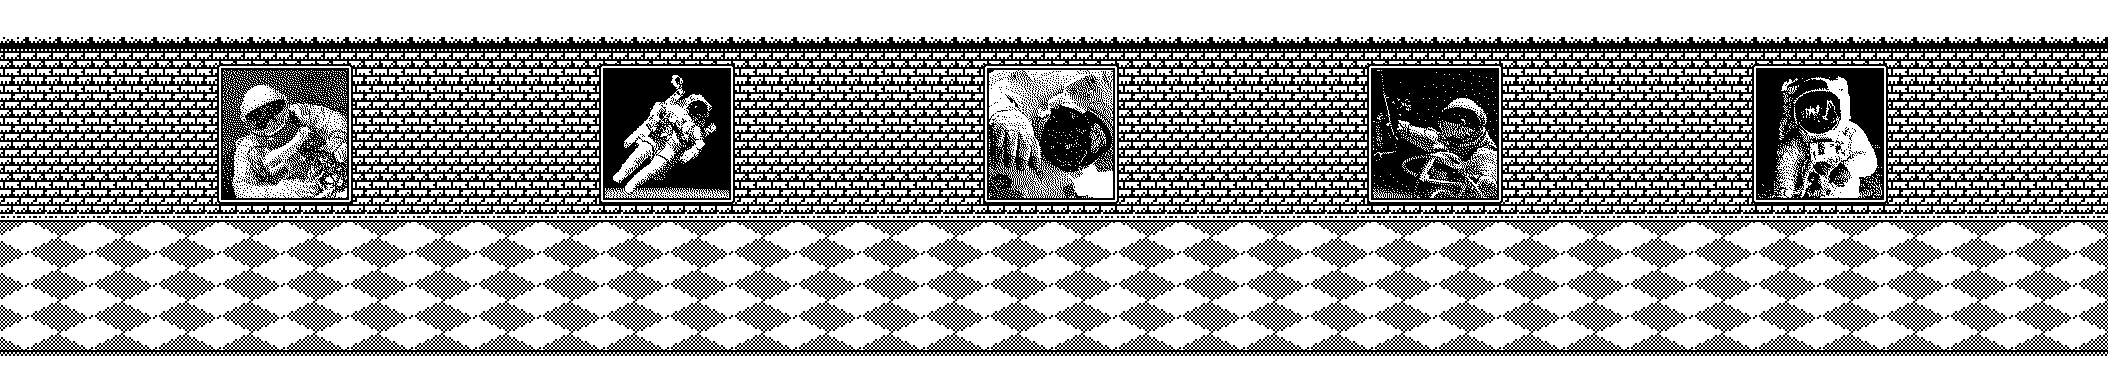
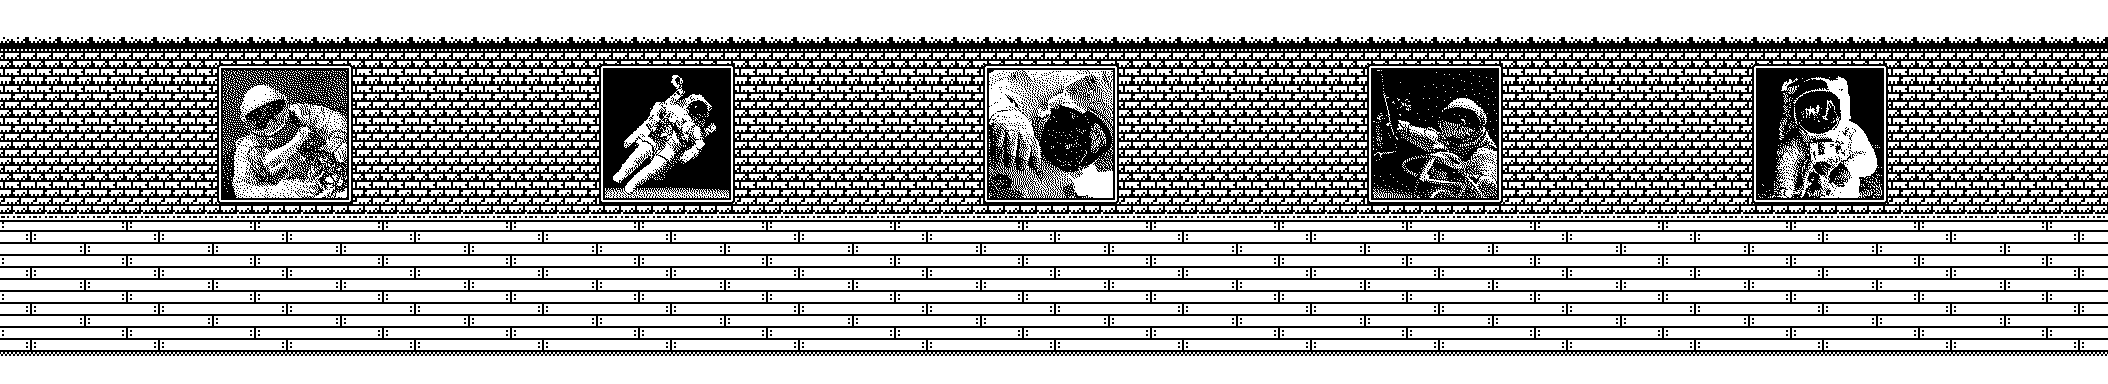
Fighting flicker (turns out to be 1px contrasts that move.)

Changed region(s): [[0.0, 0.5625, 1.0, 0.9062]]

diff --git a/site/levels/004_approach.html b/site/levels/004_approach.html
@@ -10,7 +10,7 @@
   <hgroup>
     <div id="datebox"
          style="float: right; width: 200px;"
-         ><time>2012-04-15</time:></div>
+         ><time>2012-04-22</time:></div>
     <h1><a href="javascript:void(0):">Works While You Sleep!</a></h1>
   </hgroup>  
 </header>
@@ -61,12 +61,13 @@
 	    window.oRequestAnimationFrame ||
 	    window.msRequestAnimationFrame ||
 	    function(callback){
-		window.setTimeout(callback, 1000 / 60);
+		window.setTimeout(callback, 10);
 	    };
     })();//polyfill
 
     var character = false;
-    var canvas = false;
+    var frontCanvas = false;
+    var backCanvas = false;
     var tableau = Tableau.create();
 
     tableau.onCharacterAssetsLoaded = function(newCharacter, costume, bounds) {
@@ -75,33 +76,37 @@
         character.setBounds(bounds, 0, 16, 32, 32);
         character.setPosition(224, 224);
         character.setSpeed(32, 0); // One "Cell" is 32 x 32     
+	// character.setSpeed(1, 0); // One "Cell" is 32 x 32     
     };
 
     tableau.load("sprites/spaceman_32x48.png",
                  "001_asgard/corridor.png",
                  "001_asgard/corridor_bounds.png");
 
-    var showRoom = function() {
-        if(character && canvas && tableau.isLoaded()) {
+    $(function() {
+        frontCanvas = $("#adventureScreen")[0];
+	backCanvas = document.createElement("canvas");
+	backCanvas.width = frontCanvas.width;
+	backCanvas.height = frontCanvas.height;
+    });
+
+    var animation = function() {
+        if(character && backCanvas && tableau.isLoaded()) {
             var now = (new Date()).getTime();
             character.move(now);
-            tableau.draw(canvas);
+            tableau.draw(backCanvas);
         }
-	requestAnimFrame(showRoom);
 
-        /******
-        var gfx = canvas.getContext("2d");
-        gfx.fillRect(character.xPosition + character.footX,
-                     character.yPosition + character.footY,
-                     character.footWidth,
-                     character.footHeight);
-                     ******/
+	if(backCanvas && frontCanvas) {
+	    var frontGfx = frontCanvas.getContext("2d");
+	    frontGfx.clearRect(0, 0, frontCanvas.width, frontCanvas.height);
+	    frontGfx.drawImage(backCanvas, 0, 0);
+	}
+
+	requestAnimFrame(animation);
     };
-
-    $(function() {
-        canvas = $("#adventureScreen")[0];
-        requestAnimFrame(showRoom);
-    });
+    // setInterval(animation, 100);
+    requestAnimFrame(animation);
 
 })();//ROOT SCOPE
 </script>

diff --git a/site/js/tableau.js b/site/js/tableau.js
@@ -57,14 +57,14 @@ window.Tableau = (function() {
     Tableau.prototype.draw = function(canvas) {
         if(this.isLoaded()) {
             var gfx = canvas.getContext("2d");
-	    gfx.save();
             gfx.clearRect(0, 0, canvas.width, canvas.height);
 
+	    gfx.save();
 	    // Check scrolling
 	    var characterOffset = this.character.getCenter();
 	    var viewOffsetX = canvas.width/2;
 
-	    var scrollDistance = characterOffset.x - viewOffsetX;
+	    var scrollDistance = Math.floor(characterOffset.x - viewOffsetX);
 
 	    gfx.translate(-scrollDistance, 0);
             gfx.drawImage(this.roomImage, 0, 0);
